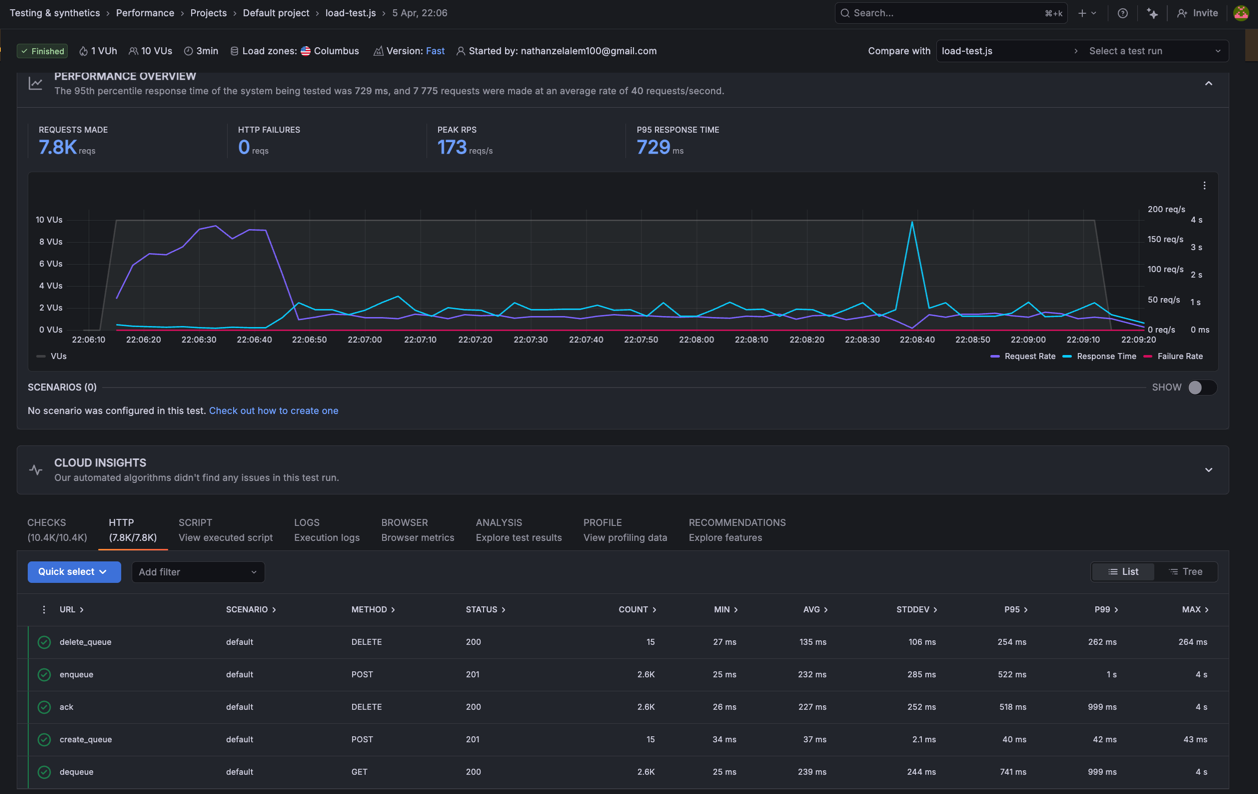
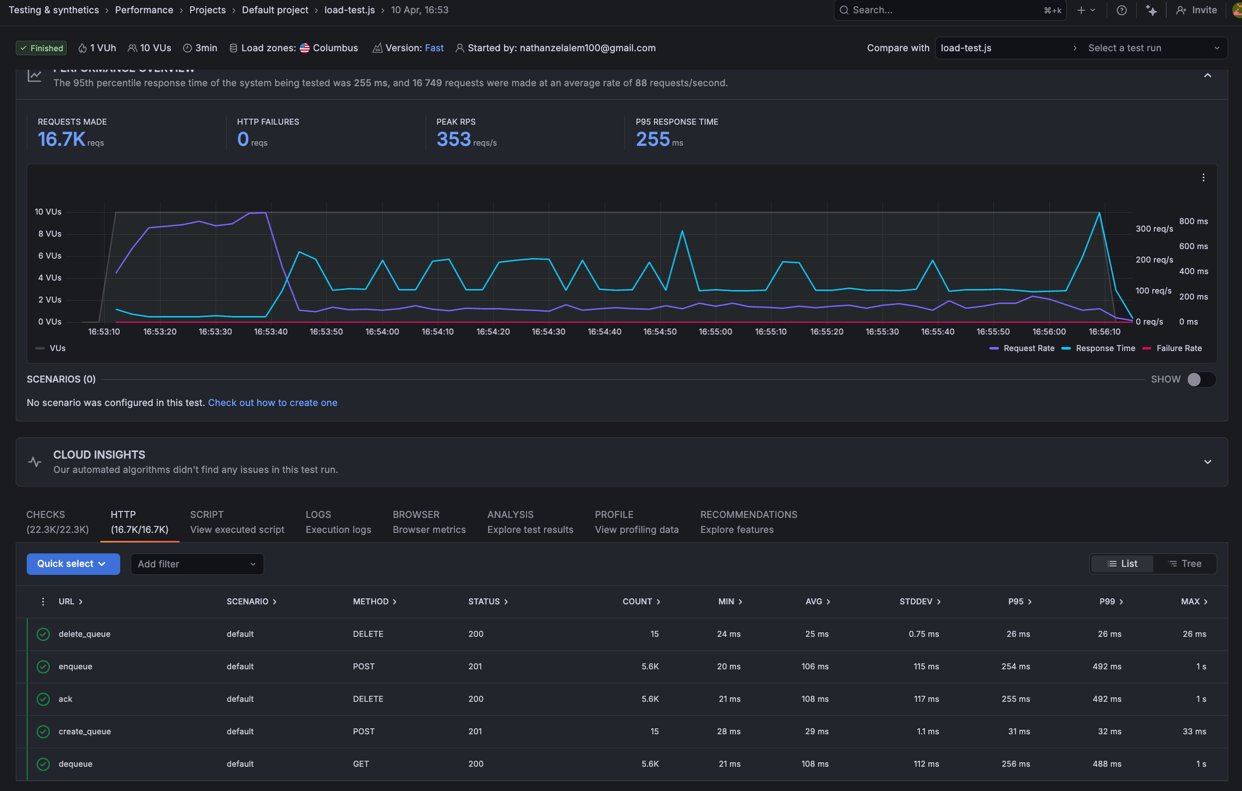
Remove Run 2 (SerialGC experiment) from performance documentation

diff --git a/PERFORMANCE.md b/PERFORMANCE.md
@@ -21,33 +21,14 @@ Load testing is conducted via [Grafana Cloud Synthetic Monitoring](https://grafa
 
 **Root cause:** GC stop-the-world pauses (up to 486ms, Eden space at 96%) compounded by thread pool stalling. An OOM incident confirmed the JVM was killed by the Linux OOM killer at ~413MB anon-rss.
 
-**Remediation applied before Run 3:**
+**Remediation applied before Run 2:**
 - 1GB swapfile added to the VM
 - JVM heap pinned: `-Xms384m -Xmx384m -XX:MaxMetaspaceSize=128m`
 - Docker Compose `mem_limit: 600m`
 
 ---
 
-### Run 2 — SerialGC Experiment (Apr 5)
-
-| Metric | Value |
-|--------|-------|
-| Total Requests | 7,800 |
-| HTTP Failures | 0 |
-| Peak RPS | 173 req/s |
-| P95 Response Time | 729ms |
-| P99 enqueue | 1,000ms |
-| P99 dequeue | 999ms |
-
-![Run 2](assets/load-test-run-2.png)
-
-**Hypothesis:** `-XX:+UseSerialGC` would reduce GC overhead on a single-core VM.
-
-**Result:** Disproved. P95 degraded from 510ms to 729ms and throughput dropped from 8.5K to 7.8K requests. SerialGC increased stop-the-world pause duration on this workload. Reverted.
-
----
-
-### Run 3 — Metrics Fix + Logging Level (Apr 10)
+### Run 2 — Metrics Fix + Logging Level (Apr 10)
 
 | Metric | Value |
 |--------|-------|
@@ -58,7 +39,7 @@ Load testing is conducted via [Grafana Cloud Synthetic Monitoring](https://grafa
 | P99 enqueue | 492ms |
 | P99 dequeue | 488ms |
 
-![Run 3](assets/load-test-run-3.png)
+![Run 2](assets/load-test-run-2.png)
 
 **Changes shipped:**
 
@@ -88,7 +69,7 @@ Logging accounted for ~7% of total allocations — primarily short-lived objects
 | P99 enqueue | 255ms |
 | P99 dequeue | 256ms |
 
-![Run 4](assets/load-test-run-4.png)
+![Run 3](assets/load-test-run-2.png)
 
 **Root cause identified:** Under load, CPU saturation on the e2-micro (shared-core) caused a death spiral — TLS handshakes with PostgreSQL were taking 500ms+, and HikariCP's default dynamic pool scaling was attempting to create new connections exactly when the CPU was most throttled.
 
@@ -101,7 +82,7 @@ Logging accounted for ~7% of total allocations — primarily short-lived objects
 
 ---
 
-### Run 5 — HikariCP Pool Downscaled to 6 (Apr 17)
+### Run 4 — HikariCP Pool Downscaled to 6 (Apr 17)
 
 | Metric | Value |
 |--------|-------|
@@ -112,7 +93,7 @@ Logging accounted for ~7% of total allocations — primarily short-lived objects
 | P99 enqueue | 245ms |
 | P99 dequeue | 246ms |
 
-![Run 5](assets/load-test-run-5.png)
+![Run 4](assets/load-test-run-3.png)
 
 **Rationale:** With 8 pool connections, each backed by a dedicated thread, the Linux scheduler on the single-core VM was paying increasing context-switching overhead. Reducing to 6 lets the CPU spend more time executing request logic and less time swapping between competing database workers.
 
@@ -128,9 +109,8 @@ Logging accounted for ~7% of total allocations — primarily short-lived objects
 | Run | Date | Change | Requests | Peak RPS | P95 |
 |-----|------|--------|----------|----------|-----|
 | 1 | Apr 5 | Baseline | 8,500 | 190 | 510ms |
-| 2 | Apr 5 | SerialGC (reverted) | 7,800 | 173 | 729ms |
-| 3 | Apr 10 | Metrics fix + log level | 16,700 | 353 | 255ms |
-| 4 | Apr 15 | HikariCP pool=8 | 24,900 | 421 | 247ms |
-| 5 | Apr 17 | HikariCP pool=6 | 33,600 | 426 | 222ms |
+| 2 | Apr 10 | Metrics fix + log level | 16,700 | 353 | 255ms |
+| 3 | Apr 15 | HikariCP pool=8 | 24,900 | 421 | 247ms |
+| 4 | Apr 17 | HikariCP pool=6 | 33,600 | 426 | 222ms |
 
-From Run 1 to Run 5: **+296% throughput, -57% P95 latency**. Zero HTTP failures across all runs.
+From Run 1 to Run 4: **+296% throughput, -57% P95 latency**. Zero HTTP failures across all runs.